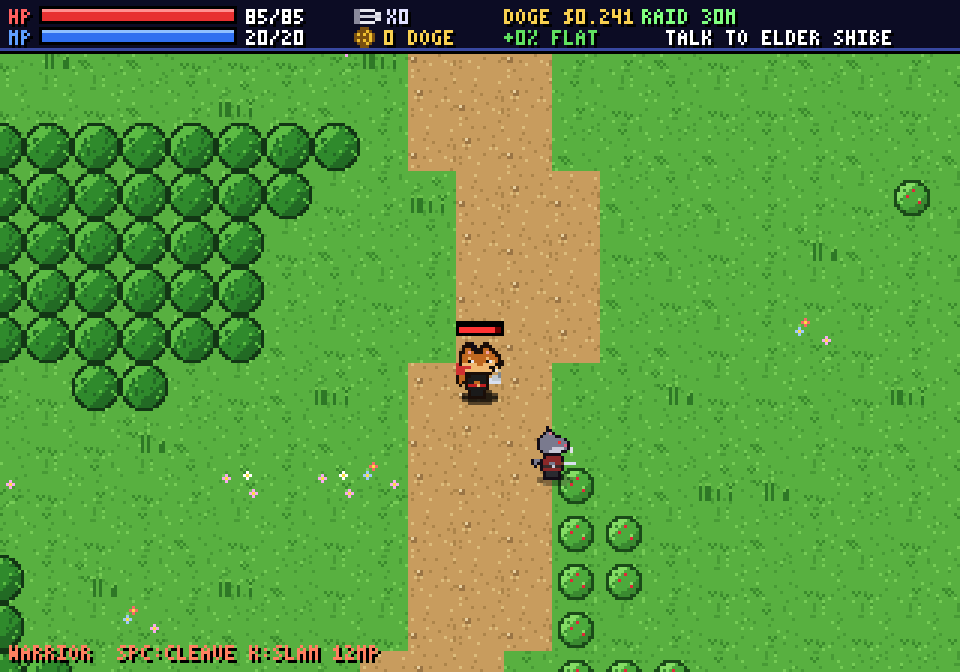
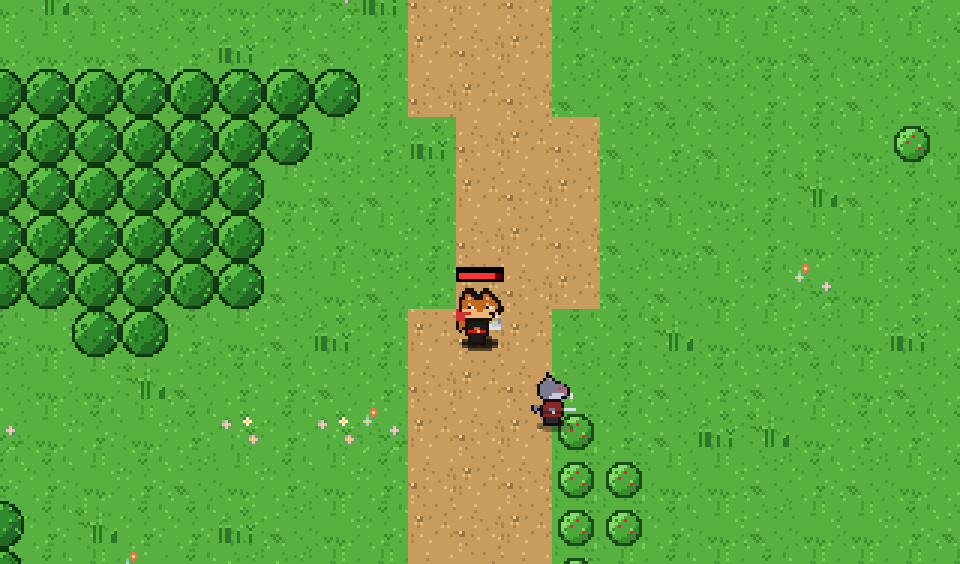
feat(landing): HUD-less gallery screenshots, 6-card grid, truthful captions (D-091)
Crop the HUD (with its DOGE price line) and hint text out of the in-game
gallery shots; drop the outdated price-showing Sphinx shot and the camp shot
that duplicates the hero so the 3-column grid fills; relabel the camp card;
meme icon bone -> Golden Yarn. Landing skill v1.10.

Verify: landing-check OK; overflow probe 0 at 390/360px; check.sh ALL PASSED.

diff --git a/landing.html b/landing.html
@@ -822,7 +822,7 @@
 
         <div class="grid-2">
           <div class="card">
-            <img class="card-icon" src="assets/icons/bone.png" width="45" height="45" alt="Bone charm icon">
+            <img class="card-icon" src="assets/icons/yarn.png" width="45" height="45" alt="Golden Yarn icon">
             <h3 class="pixel">MEME STAT GENERATION</h3>
             <p style="margin-bottom: 14px;">
               Every gear NFT's bonus is derived from its token ID, so anyone can check it. Rarity (common ×1 up to legendary ×6) scales the roll. Meme rolls include:
@@ -1237,21 +1237,7 @@
             </div>
           </div>
 
-          <!-- Screenshot 5: Sphinx DeFi & Staking Pool -->
-          <div class="ss-card">
-            <div class="ss-img-wrap" onclick="openLightbox('assets/screenshots/06-sphinx-defi.png')">
-              <img src="assets/screenshots/06-sphinx-defi.png" alt="Sphinx DeFi & Staking Pool" loading="lazy">
-            </div>
-            <div class="ss-info">
-              <div>
-                <h4 class="pixel">SPHINX DEFI & STAKING POOL</h4>
-                <p>Stake testnet DOGE for 80% of mint fees, and swap gear in DogeDEX pools.</p>
-              </div>
-              <div class="silk" style="font-size: 11px; color: var(--gold); margin-top: 12px;">SYSTEM: ON-CHAIN DEFI</div>
-            </div>
-          </div>
-
-          <!-- Screenshot 6: Resource Gathering & Fishing -->
+          <!-- Screenshot 5: Resource Gathering & Fishing -->
           <div class="ss-card">
             <div class="ss-img-wrap" onclick="openLightbox('assets/screenshots/07-fishing.png')">
               <img src="assets/screenshots/07-fishing.png" alt="Resource Gathering & Fishing" loading="lazy">
@@ -1265,33 +1251,20 @@
             </div>
           </div>
 
-          <!-- Screenshot 7: 3-Player Multiplayer Raid -->
+          <!-- Screenshot 6: Play together -->
           <div class="ss-card">
             <div class="ss-img-wrap" onclick="openLightbox('assets/screenshots/08-multiplayer-3p.png')">
-              <img src="assets/screenshots/08-multiplayer-3p.png" alt="3-Player Multiplayer Raid" loading="lazy">
+              <img src="assets/screenshots/08-multiplayer-3p.png" alt="Three players together at the camp around the giant Dogecoin" loading="lazy">
             </div>
             <div class="ss-info">
               <div>
-                <h4 class="pixel">3-PLAYER MULTIPLAYER RAID</h4>
-                <p>Real-time WebSocket multiplayer party staging coordinated assaults on the Cat Lord syndicate.</p>
+                <h4 class="pixel">PLAY TOGETHER</h4>
+                <p>Up to 8 players share the world live. Here, three doges gather at the camp before a raid.</p>
               </div>
               <div class="silk" style="font-size: 11px; color: var(--cyan); margin-top: 12px;">SYSTEM: MULTIPLAYER CO-OP</div>
             </div>
           </div>
 
-          <!-- Screenshot 8: the camp & Doge Sanctuary -->
-          <div class="ss-card">
-            <div class="ss-img-wrap" onclick="openLightbox('assets/screenshots/02-camp-coin.png')">
-              <img src="assets/screenshots/02-camp-coin.png" alt="the camp & Doge Sanctuary" loading="lazy">
-            </div>
-            <div class="ss-info">
-              <div>
-                <h4 class="pixel">CAMP REFUGE & DOGE SANCTUARY</h4>
-                <p>Resting on the consecrated floor mosaic to regenerate HP and MP in 100% PvP immunity.</p>
-              </div>
-              <div class="silk" style="font-size: 11px; color: var(--gold); margin-top: 12px;">SYSTEM: SAFE HAVEN & LORE</div>
-            </div>
-          </div>
         </div>
       </div>
     </section>

diff --git a/.agents/skills/dogeon-landing-design/SKILL.md b/.agents/skills/dogeon-landing-design/SKILL.md
@@ -5,7 +5,7 @@ description: Own design skill for DOGEON's public face — the landing page (lan
 
 # DOGEON Landing & Trailer Design Skill
 
-Version: 1.9 (2026-11-13) · Owner: the landing-page lane (Claude Code) · Pair with `prompts/LANDING_MASTER_PROMPT.md`.
+Version: 1.10 (2026-11-13) · Owner: the landing-page lane (Claude Code) · Pair with `prompts/LANDING_MASTER_PROMPT.md`.
 
 ## RULE L0 — this skill and its master prompt are living documents
 Every change to `landing.html`, `assets/**`, `docs/TRAILER_SCRIPT.md`, or any marketing image or video ends with:
@@ -109,9 +109,9 @@ kill <the PID of YOUR test relay>    # never pkill node/relay: the user's own se
 | ~~B5~~ | **Done D-086.** Over 20 claims corrected against code (see changelog 1.1) | T1 |
 | ~~B6~~ | **Done D-087.** Play CTAs point at `https://play.dogeon.lat/` (HTTPS verified 200 before switching); `/play` stays as a route | T6 |
 | B7 | Embed the finished trailer (self-hosted MP4 `<video>` with a poster; no third-party iframe) | Hero motion with no heavy scripts |
-| B8 | Gallery: 8 cards in a 3-column grid leave an empty slot; use 4 columns on desktop (or 6/9 cards) | Repeated items should fill their rows |
-| B9 | Meme-stat card shows a bone icon; use a rolled-gear sprite (e.g. yarn or a weapon) | Icon should say what the card is about |
-| B10 | Gallery screenshots still show the HUD's `DOGE $0.245` price line; crop the HUD or retake (T8) | No price data on the page |
+| ~~B8~~ | **Done D-091.** Gallery cut to 6 cards (3×2): dropped 06-sphinx (price/oracle menu, outdated) and 02-camp (duplicate of the hero) | Repeated items should fill their rows |
+| ~~B9~~ | **Done D-091.** Meme-stat card icon: bone → Golden Yarn | Icon should say what the card is about |
+| ~~B10~~ | **Done D-091.** HUD (top 54 px) and hint text (bottom 54 px) cropped from 03/04/05/07/08 → 960×564; no price line left in cards or lightbox | No price data on the page |
 
 ## 10. Domains and deploy (dogeon.lat = landing, play.dogeon.lat = game)
 One Fly app (`dogeon-game`; `fly.toml` + `Dockerfile`) runs `server/relay.mjs`, which routes by host and path (D-082):
@@ -135,6 +135,7 @@ The game opens its multiplayer WebSocket to whatever host served it, so both hos
 8. **One machine, sleeps when idle.** The app runs a single Fly machine (`fly scale count 1`; in-memory relay rooms must not split across machines). `fly status` often shows it `stopped`: Fly auto-stops it when no one is connected and wakes it on the next request (~3 s cold, <1 s warm, measured 2026-11-13). That is normal, not an outage. `fly.toml` keeps `auto_stop_machines = "stop"`: the user prefers sleep (cheaper) over instant first loads (D-088 tried always-on and was reverted the same day). If a `fly` command fails with `token expired`, run `fly auth login`, open the printed URL in the Windows browser and click Authorize; never paste the URL into the code prompt.
 
 ## Changelog
+- 1.10 (2026-11-13, D-091): B8/B9/B10 done. In-game screenshots are stored HUD-less (crop `HUD_H`=18 game px top and the 18 px hint band bottom, at 3× = 54 px each). The lightbox shows the full file, so cropping only via CSS `object-fit` is not enough. Card 08 relabeled "PLAY TOGETHER" (it shows the camp, not a raid). **Lesson:** check each gallery caption against what its picture actually shows.
 - 1.9 (2026-11-13, D-090): new hero `assets/screenshots/hero-camp-coin.png` (user's capture, coin centered; HUD with price, wallet value and deployer address cropped off; 704×380). Rule T8: PonziFi meme game on testnet tokens, no price data anywhere. Removed the RedStone/price card, hero mention, contracts-table row and Sphinx "oracle feeds"; `landing-check.mjs` no longer requires the feed address. Lore and staking rewritten as PonziFi satire; footer disclaimer; new "Come build on DogeOS" section (docs, dogeos.com, source repo), nav 7 links. Added B10.
 - 1.8 (2026-11-13, D-089): economy copy follows the game change — off-chain DOGE now comes only from monster drops (NPCs never hand out DOGE; Elder quests pay materials). **Lesson:** a gameplay change can falsify landing copy; grep `landing.html` for the changed mechanic in the same commit.
 - 1.7 (2026-11-13, D-086 follow-up): full-page review of the live site. Fixed "The the camp" typo, literal backticks around the oracle address (prose must never contain Markdown backticks), economy title contradicting the two-currency copy, "VERIFIED" contracts (unproven on the explorer → "LIVE"), Sphinx gallery fee claim. Added B8, B9. **Screenshot lesson:** headless Chrome won't repaint after `scrollTo` and the relay 404s scratch HTML; to capture a long page by sections, load a scratch copy with `<base href="https://dogeon.lat/">` and `body{margin-top:-Ypx}`, `header{position:static}`.

diff --git a/.claude/skills/dogeon-landing-design/SKILL.md b/.claude/skills/dogeon-landing-design/SKILL.md
@@ -5,7 +5,7 @@ description: Own design skill for DOGEON's public face — the landing page (lan
 
 # DOGEON Landing & Trailer Design Skill
 
-Version: 1.9 (2026-11-13) · Owner: the landing-page lane (Claude Code) · Pair with `prompts/LANDING_MASTER_PROMPT.md`.
+Version: 1.10 (2026-11-13) · Owner: the landing-page lane (Claude Code) · Pair with `prompts/LANDING_MASTER_PROMPT.md`.
 
 ## RULE L0 — this skill and its master prompt are living documents
 Every change to `landing.html`, `assets/**`, `docs/TRAILER_SCRIPT.md`, or any marketing image or video ends with:
@@ -109,9 +109,9 @@ kill <the PID of YOUR test relay>    # never pkill node/relay: the user's own se
 | ~~B5~~ | **Done D-086.** Over 20 claims corrected against code (see changelog 1.1) | T1 |
 | ~~B6~~ | **Done D-087.** Play CTAs point at `https://play.dogeon.lat/` (HTTPS verified 200 before switching); `/play` stays as a route | T6 |
 | B7 | Embed the finished trailer (self-hosted MP4 `<video>` with a poster; no third-party iframe) | Hero motion with no heavy scripts |
-| B8 | Gallery: 8 cards in a 3-column grid leave an empty slot; use 4 columns on desktop (or 6/9 cards) | Repeated items should fill their rows |
-| B9 | Meme-stat card shows a bone icon; use a rolled-gear sprite (e.g. yarn or a weapon) | Icon should say what the card is about |
-| B10 | Gallery screenshots still show the HUD's `DOGE $0.245` price line; crop the HUD or retake (T8) | No price data on the page |
+| ~~B8~~ | **Done D-091.** Gallery cut to 6 cards (3×2): dropped 06-sphinx (price/oracle menu, outdated) and 02-camp (duplicate of the hero) | Repeated items should fill their rows |
+| ~~B9~~ | **Done D-091.** Meme-stat card icon: bone → Golden Yarn | Icon should say what the card is about |
+| ~~B10~~ | **Done D-091.** HUD (top 54 px) and hint text (bottom 54 px) cropped from 03/04/05/07/08 → 960×564; no price line left in cards or lightbox | No price data on the page |
 
 ## 10. Domains and deploy (dogeon.lat = landing, play.dogeon.lat = game)
 One Fly app (`dogeon-game`; `fly.toml` + `Dockerfile`) runs `server/relay.mjs`, which routes by host and path (D-082):
@@ -135,6 +135,7 @@ The game opens its multiplayer WebSocket to whatever host served it, so both hos
 8. **One machine, sleeps when idle.** The app runs a single Fly machine (`fly scale count 1`; in-memory relay rooms must not split across machines). `fly status` often shows it `stopped`: Fly auto-stops it when no one is connected and wakes it on the next request (~3 s cold, <1 s warm, measured 2026-11-13). That is normal, not an outage. `fly.toml` keeps `auto_stop_machines = "stop"`: the user prefers sleep (cheaper) over instant first loads (D-088 tried always-on and was reverted the same day). If a `fly` command fails with `token expired`, run `fly auth login`, open the printed URL in the Windows browser and click Authorize; never paste the URL into the code prompt.
 
 ## Changelog
+- 1.10 (2026-11-13, D-091): B8/B9/B10 done. In-game screenshots are stored HUD-less (crop `HUD_H`=18 game px top and the 18 px hint band bottom, at 3× = 54 px each). The lightbox shows the full file, so cropping only via CSS `object-fit` is not enough. Card 08 relabeled "PLAY TOGETHER" (it shows the camp, not a raid). **Lesson:** check each gallery caption against what its picture actually shows.
 - 1.9 (2026-11-13, D-090): new hero `assets/screenshots/hero-camp-coin.png` (user's capture, coin centered; HUD with price, wallet value and deployer address cropped off; 704×380). Rule T8: PonziFi meme game on testnet tokens, no price data anywhere. Removed the RedStone/price card, hero mention, contracts-table row and Sphinx "oracle feeds"; `landing-check.mjs` no longer requires the feed address. Lore and staking rewritten as PonziFi satire; footer disclaimer; new "Come build on DogeOS" section (docs, dogeos.com, source repo), nav 7 links. Added B10.
 - 1.8 (2026-11-13, D-089): economy copy follows the game change — off-chain DOGE now comes only from monster drops (NPCs never hand out DOGE; Elder quests pay materials). **Lesson:** a gameplay change can falsify landing copy; grep `landing.html` for the changed mechanic in the same commit.
 - 1.7 (2026-11-13, D-086 follow-up): full-page review of the live site. Fixed "The the camp" typo, literal backticks around the oracle address (prose must never contain Markdown backticks), economy title contradicting the two-currency copy, "VERIFIED" contracts (unproven on the explorer → "LIVE"), Sphinx gallery fee claim. Added B8, B9. **Screenshot lesson:** headless Chrome won't repaint after `scrollTo` and the relay 404s scratch HTML; to capture a long page by sections, load a scratch copy with `<base href="https://dogeon.lat/">` and `body{margin-top:-Ypx}`, `header{position:static}`.

diff --git a/docs/DECISIONS.md b/docs/DECISIONS.md
@@ -35,6 +35,13 @@ When an issue is fixed: strike it here, link the D-entry, and promote its sim WA
 
 ---
 
+### D-091 · 2026-11-13 · Landing gallery: HUD-less screenshots, 6-card grid, truthful captions (Claude Code)
+- What: Cropped the HUD (with its `DOGE $0.245` price line) and the bottom hint text out of `assets/screenshots/03,04,05,07,08` (960×672 → 960×564, rows 54–618; the title shot 01 has no HUD). Gallery cut from 8 to 6 cards so the 3-column grid fills: removed `06-sphinx-defi` (its menu shows the RedStone DOGE/USD row and the outdated "SIMULATED DOGE" wallet) and `02-camp-coin` (duplicate of the new hero). Card 08 relabeled "PLAY TOGETHER" (it shows three players at camp, not a raid). Meme-stat icon bone → Golden Yarn. Landing skill → v1.10 (B8, B9, B10 struck).
+- Why: rule T8 (no price data, including images and the lightbox) and the "repeated items fill their rows" practice; user asked to continue the plan.
+- Tool: Claude Code (Opus 5.5); headless-Chrome canvas crop; landing-check; iframe overflow probe; 1280px gallery render.
+- Alternatives rejected: hiding the HUD with CSS `object-fit` only (the lightbox still showed the full image); a 4-column grid with 8 cards (narrow cards stop cropping, so the HUD would show; and it would keep the price-showing Sphinx shot).
+- Verify: landing-check "Landing matches the game"; overflow probe 0 elements over at 390/360px; `bash tests/check.sh` ALL CHECKS PASSED.
+
 ### D-090 · 2026-11-13 · Landing: coin-centered hero, PonziFi/testnet positioning, no price data, "Build on DogeOS" (Claude Code)
 - What: (1) Hero image → `assets/screenshots/hero-camp-coin.png`, the user's capture with the giant Dogecoin centered; cropped (rows 72–452 of 704×494) to drop the HUD's `DOGE $0.072`, wallet `$` value, mod HP and deployer address, plus the bottom hint text; also the og/twitter image. (2) No DOGE price anywhere: removed the RedStone oracle card (now "TESTNET TOKENS ONLY"), the hero's "DOGE/USD price feed", the contracts-table RedStone row and the Sphinx "oracle feeds"; `scripts/landing-check.mjs` keeps the feed as an allowed-but-optional address. (3) Positioning: hero badge "A PONZIFI MEME GAME · DOGEOS CHIKYŪ TESTNET"; lore rewritten (the Fat Cat Syndicate's PonziFi drained the treasury, the Cat Lord pulled the rug); staking reframed as PonziFi satire; disclaimer "testnet tokens have no real-world value · not financial advice" in hero, economy card and footer. (4) New `#build` section "Come build on DogeOS" (docs.dogeos.com getting-started, www.dogeos.com, the public repo) + nav link. Skill → v1.9 (rule T8), master prompt → v1.2.
 - Why: user request: the coin-centered shot as the main picture; "remove any doge as a price thing"; "this is a PonziFi memeGame and we are using test net tokens, add those concepts as part of the main game lore"; "come and build on DogeOS". The explicit no-value disclaimer keeps the satire from reading as an investment pitch.

diff --git a/CONTEXT.md b/CONTEXT.md
@@ -18,6 +18,8 @@ that changes game difficulty in real time. DOGE/Ð coin references are wanted **
 
 ## 00. RESUME HERE (latest, 2026-11-13, after D-088)
 
+> **D-091 (landing):** gallery screenshots are HUD-less (no price), 6-card grid, captions match the pictures. Landing backlog left: B4 (retake shots + real-mint capture), B7 (trailer embed).
+
 > **D-090 (landing):** coin-centered hero (`hero-camp-coin.png`), positioning = **PonziFi meme game on testnet tokens** (skill rule T8: no DOGE price/USD/oracle on the page, disclaimer in hero + footer), new "Come build on DogeOS" section. Needs `fly deploy -a dogeon-game` to go live. Game-side follow-up for the game lane: the HUD still shows `DOGE $price`.
 
 > **D-089 (gameplay, user):** NPCs never give DOGE (Elder quests pay wood/stone/iron via `QUEST_MATS`; no Sphinx whisker swap; vault no
